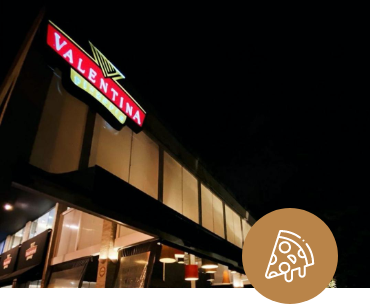
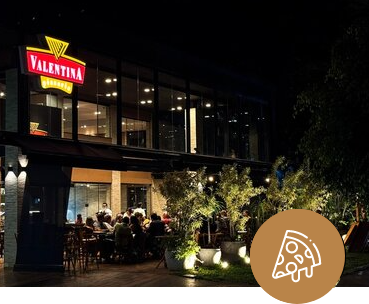
Replacing pictures

diff --git a/src/components/ReserveBox/MakeYourReserve.vue b/src/components/ReserveBox/MakeYourReserve.vue
@@ -1,12 +1,12 @@
 <template>
-    <div class="grid-2-h section bg-primary make-your-reserve mt-2">
+    <div class="grid-1-2-h section bg-primary make-your-reserve mt-2">
         <div class="left-grid paragraph">
             <CustomTitle spanText="A VALENTINA"></CustomTitle>
             <h1 class="mt-3 velino">Faça seu evento com a Valentina</h1>
         </div>
         <div class="right-grid">
             <div class="bg-light-gray paragraph py-10 px-8 reserve-home">
-                <h2 class="pb-4">Para mais informações</h2>
+                <h2 class="pb-4">Para mais informações:</h2>
                 <h2 class="pb-3">(61) 3273-7009<br>(61) 98616-0909</h2>
                 <h3>valentinapizzaria@hotmail.com</h3>
                 <h3><a class="insta-link" href="https://www.instagram.com/valentinapizzaria/" target="_blank">@valentinapizzaria</a></h3>
@@ -17,14 +17,16 @@
 <style lang="css" scoped>
 .make-your-reserve {
     background-color: #B9844A !important;
+    height: 400px;
 }
 .make-your-reserve .left-grid {
     color: white;
-    padding: 5vh;
+    padding-left: 5vh;
+    padding-top: 5vh;
 }
 .make-your-reserve .right-grid {
     color: black;
-    background-image: url('../../assets/bg-reserve-home.png');
+    background-image: url('../../assets/bg-reserve-home.jpg');
     background-size: 100% 100%;
 }
 .paragraph *:is(.whatsapp-reserve-link) {
@@ -33,5 +35,16 @@
 }
 .reserve-home {
     overflow: hidden;
+}
+
+@media (max-width: 800px){
+    .make-your-reserve {
+        height: 100%;
+    }
+    .make-your-reserve .left-grid {
+        padding: 0;
+        padding-left: 25px;
+        padding-top: 25px;
+    }
 }
 </style>

diff --git a/src/components/OrderValentina/OrderValentina.vue b/src/components/OrderValentina/OrderValentina.vue
@@ -1,19 +1,24 @@
 <script setup>
 </script>
 <template>
-    <div class="full-grid paragraph text-white section bg-white order-valentina pa-10">
-        <CustomTitle spanText="FAÇA UM PEDIDO NA VALENTINA"></CustomTitle>
-        <h1 class="mb-7">Faça seu pedido</h1>
-        <a href="https://deliverydireto.com.br/valentinapizzaria-jardimbotanico" target="_blank" class="secondary-btn">FAZER PEDIDO</a>
+    <div class="full-grid text-white section bg-white order-valentina pa-10">
+        <div class="paragraph content">
+            <CustomTitle spanText="FAÇA UM PEDIDO NA VALENTINA"></CustomTitle>
+            <h1 class="mb-7">Faça seu pedido</h1>
+            <a href="https://deliverydireto.com.br/valentinapizzaria-jardimbotanico" target="_blank" class="secondary-btn">FAZER PEDIDO</a>
+        </div>
     </div>
 </template>
 <style lang="css" scoped>
 .order-valentina {
+    display: flex;
+    justify-content: center;
+    align-items: center;
     margin: auto !important;
     width: 75%;
 }
 
-.order-valentina *:not(.custom-title):not(a) {
+.order-valentina .content *:not(.custom-title):not(a) {
     font-family: "Baskervville";
     font-weight: 100 !important;
     font-size: 70px;

diff --git a/src/components/Intro/Intro.vue b/src/components/Intro/Intro.vue
@@ -4,10 +4,11 @@ import cardapio from '@/assets/Cardapio-Valentina-Pizzaria.pdf';
 import pizza_png from '@/assets/pizza.png';
 import moscow_mule_png from '@/assets/moscow-mule.png';
 import salada_png from '@/assets/salada.png';
-import forno_png from '@/assets/forno.png';
+import forno_jpeg from '@/assets/forno.jpeg';
+import sorvete_jpeg from '@/assets/sorvete.jpeg';
 import ReserveWidget from '../ReserveBox/ReserveWidget.vue';
 
-const introCarrosel = [pizza_png, moscow_mule_png, salada_png, forno_png]
+const introCarrosel = [pizza_png, moscow_mule_png, salada_png, forno_jpeg, sorvete_jpeg]
 </script>
 
 <template>
@@ -64,7 +65,27 @@ const introCarrosel = [pizza_png, moscow_mule_png, salada_png, forno_png]
     cursor: pointer;
 }
 
+.intro {
+    display: grid;
+    grid-template-columns: 50% 50%;
+}
 .intro-actions {
+    margin-top: 20px;
     margin-right: 20px;
+    display: grid;
+    grid-template-columns: 70%;
+    justify-content: flex-start;
+    gap: 20px;
+}
+.intro-carrosel {
+    overflow: hidden;
+}
+
+.intro .right-grid {
+    width: 100%;
+    height: 500px;
+}
+.section:not(.intro-grid) {
+    margin-top: 1vh;
 }
 </style>

diff --git a/src/views/Home.vue b/src/views/Home.vue
@@ -31,28 +31,6 @@ import ValentinaAtHome from '../pages/ValentinaAtHome.vue';
     background-color: white;
     margin-bottom: 3vh;
 }
-.intro {
-    display: grid;
-    grid-template-columns: 50% 50%;
-}
-.intro-actions {
-    margin-top: 20px;
-    display: grid;
-    grid-template-columns: 70%;
-    justify-content: flex-start;
-    gap: 20px;
-}
-.intro-carrosel {
-    overflow: hidden;
-}
-
-.intro .right-grid {
-    width: 100%;
-    height: 500px;
-}
-.section:not(.intro-grid) {
-    margin-top: 1vh;
-}
 
 .starts-pizza {
     font-family: Rebecca Samuels Regular;
@@ -79,7 +57,7 @@ import ValentinaAtHome from '../pages/ValentinaAtHome.vue';
     }
 }
 
-@media (max-width: 850px) {
+@media (max-width: 800px) {
 
     .intro-actions {
         width: 80%;
@@ -100,7 +78,6 @@ import ValentinaAtHome from '../pages/ValentinaAtHome.vue';
         display: grid;
         grid-template-columns: 100%;
         grid-template-rows: 50% 50%;
-        margin-bottom: 20px;
     }
     .home > div {
         padding: 0px 0px;

diff --git a/src/pages/CelebrateBirthday.vue b/src/pages/CelebrateBirthday.vue
@@ -10,7 +10,7 @@
         </div>
         <div class="grid-3-h gap-2">
             <div class="left-grid">
-                <v-img height="300px" src="../assets/pizza-ice-chocolate.png"></v-img>
+                <v-img height="300px" src="../assets/birthday-girl.png"></v-img>
                 <p class="align-start">O aniversariante do dia ganha um presente: uma pizza individual doce, 
                     Nutella ou Macaquito. basta mostrar a identidade.</p>
             </div>
@@ -20,7 +20,7 @@
                     São três tipos de cardápios, a partir de R$83,00 por pessoa, a bebida não está inclusa.</p>    
             </div>
             <div class="right-grid">
-                <v-img height="300px" src="../assets/book-birthday.png"></v-img>
+                <v-img height="300px" src="../assets/celebration-toast.png"></v-img>
                 <p class="align-start">Ligue para (61) 3273-7009 para mais informações e reservas de datas.</p>
             </div>
         </div>

diff --git a/src/pages/AboutValentina.vue b/src/pages/AboutValentina.vue
@@ -3,7 +3,8 @@
 <template>
     <div>
         <div class="grid-2-h section bg-white about-valentina">
-            <div class="left-grid pizza-beer-cake"></div>
+            <div class="left-grid pizza-beer-cake">
+            </div>
             <div class="right-grid paragraph about-valentina-text py-5 px-3">
                 <CustomTitle spanText="A VALENTINA PIZZARIA"></CustomTitle>
                 <h1 class="velino">Sabor e qualidade são sinônimos da Valentina Pizzaria.</h1>
@@ -31,8 +32,8 @@
 
 .about-valentina-text p{
     text-justify: auto;
-
 }
+
 .pizza-beer-cake {
     background-image: url('../assets/img-3-parts.png');
     background-repeat: no-repeat;

diff --git a/src/components/Footer/Footer.vue b/src/components/Footer/Footer.vue
@@ -1,7 +1,7 @@
 <script lang="js">
 </script>
 <template>
-    <div class="app-footer">
+    <div class="app-footer pt-4">
         <CustomTitle spanText="NOSSOS ENDEREÇOS"/>
         <div class="grid-3-h address">
             <div class="left-grid location">
@@ -54,7 +54,7 @@
         </div>
         
         
-        <span class="mt-10">Valentina Pizzaria &#174; 2024</span>
+        <span class="mt-10 ml-5">Valentina Pizzaria &#174; 2025</span>
     </div>    
 </template>
 <style lang="css">

diff --git a/src/style.css b/src/style.css
@@ -172,7 +172,7 @@ button:focus-visible {
 }
 .bg-light-gray {
   background-color: rgb(224, 224, 224);
-  opacity: 0.8;
+  opacity: 0.7;
   height: 80%;
   width: 80%;
   margin: auto;
@@ -180,7 +180,7 @@ button:focus-visible {
 }
 .insta-link {
   color: #c36;
-  font-weight: 700;
+  font-weight: 900;
 }
 .whatsapp-reserve {
   display: block;

diff --git a/src/components/OrderOnApp/OrderOnApp.vue b/src/components/OrderOnApp/OrderOnApp.vue
@@ -21,7 +21,7 @@
             </div>
         </div>
         <div class="right-grid">
-            <v-img class="img" min-height="600px" src="../../assets/new-app.png">
+            <v-img class="img" height="530px" src="../../assets/new-app.png">
             </v-img>
         </div>
     </div>
